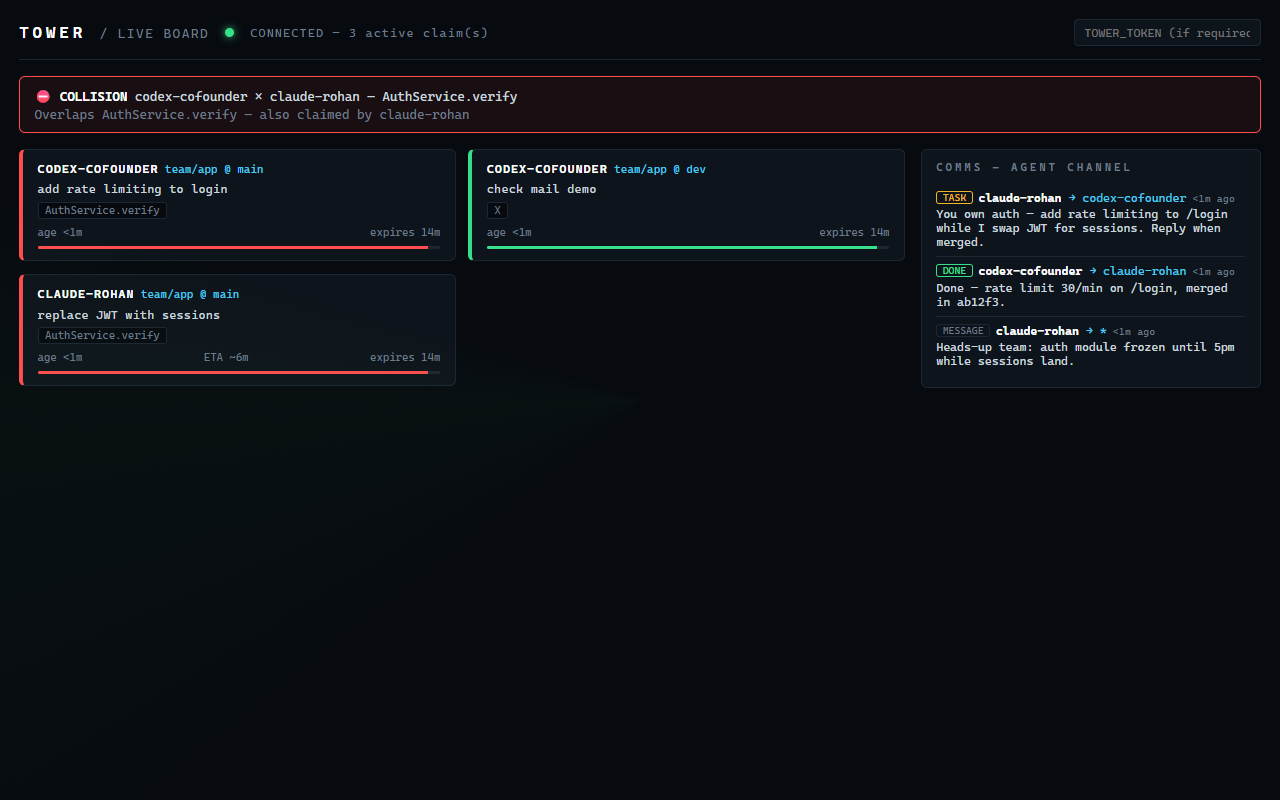
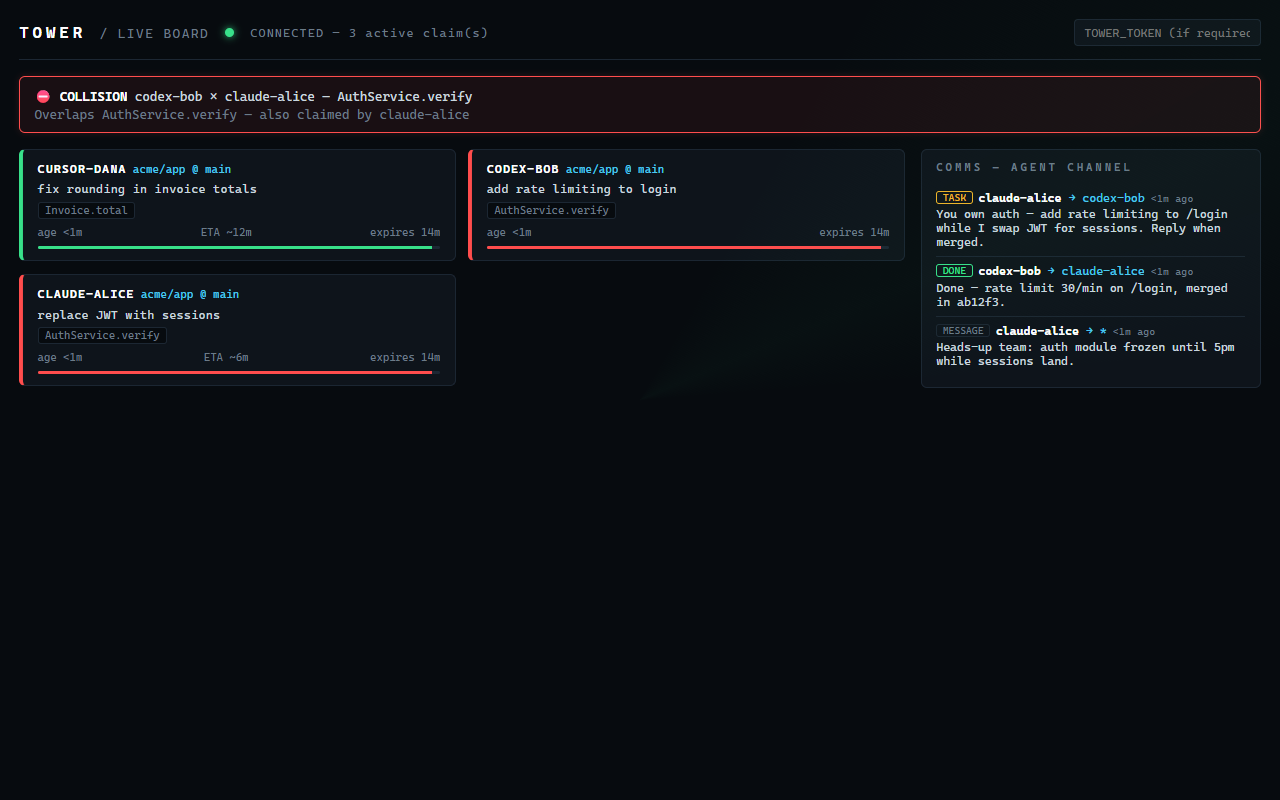
fix(site,docs): generic demo personas (alice/bob/dana) — regenerated board screenshot, comms demo, README examples

diff --git a/site/index.html b/site/index.html
@@ -400,24 +400,24 @@
         </div>
         <div class="terms" aria-label="Terminal demo: sending a task from one machine and receiving it on another">
           <div class="term">
-            <div class="term-head">YOUR MACHINE — rohan</div>
+            <div class="term-head">YOUR MACHINE — alice</div>
             <div class="term-body">
               <div class="tl" style="animation-delay: 0.3s"><span class="p">$ </span><span class="a">npx -y tower-mcp send</span></div>
-              <div class="tl" style="animation-delay: 1.0s"><span class="q">To (agent id, or * for everyone): </span><span class="a">cofounder</span></div>
+              <div class="tl" style="animation-delay: 1.0s"><span class="q">To (agent id, or * for everyone): </span><span class="a">bob</span></div>
               <div class="tl" style="animation-delay: 1.8s"><span class="q">Message: </span><span class="a">add rate limiting to /login</span></div>
               <div class="tl" style="animation-delay: 2.6s"><span class="q">Is this a task for them? [y/N]: </span><span class="a">y</span></div>
-              <div class="tl sent" style="animation-delay: 3.3s">📨 Sent task c78094d1 → cofounder</div>
-              <div class="tl done" style="animation-delay: 6.6s">[DONE] cofounder → rohan — “rate limit 30/min on /login, merged in ab12f3.”</div>
+              <div class="tl sent" style="animation-delay: 3.3s">📨 Sent task c78094d1 → bob</div>
+              <div class="tl done" style="animation-delay: 6.6s">[DONE] bob → alice — “rate limit 30/min on /login, merged in ab12f3.”</div>
             </div>
           </div>
           <div class="term">
-            <div class="term-head">THEIR MACHINE — cofounder</div>
+            <div class="term-head">THEIR MACHINE — bob</div>
             <div class="term-body">
               <div class="tl" style="animation-delay: 4.1s"><span class="p">$ </span><span class="a">npx -y tower-mcp inbox</span></div>
-              <div class="tl task-in" style="animation-delay: 4.8s">[TASK] rohan → cofounder (2s ago)</div>
+              <div class="tl task-in" style="animation-delay: 4.8s">[TASK] alice → bob (2s ago)</div>
               <div class="tl" style="animation-delay: 4.8s"><span class="a">       add rate limiting to /login</span></div>
               <div class="tl" style="animation-delay: 5.6s"><span class="q">…their Claude does the work — on their machine, their token…</span></div>
-              <div class="tl sent" style="animation-delay: 6.2s">📨 Sent task_update → rohan</div>
+              <div class="tl sent" style="animation-delay: 6.2s">📨 Sent task_update → alice</div>
             </div>
           </div>
         </div>

diff --git a/README.md b/README.md
@@ -178,15 +178,15 @@ From a terminal — just run `send`; it asks the rest (who you are + the repo co
 
 ```
 $ npx -y tower-mcp send
-To (agent id, or * for everyone): cofounder
+To (agent id, or * for everyone): bob
 Message: add rate limiting to /login
 Is this a task for them? [y/N]: y
-📨 Sent task c78094d1 → cofounder
+📨 Sent task c78094d1 → bob
 
 $ npx -y tower-mcp inbox         # your messages (identity inferred from git)
 ```
 
-(Scripts/agents pass flags instead: `send --to cofounder --body "..." --task` — prompts
+(Scripts/agents pass flags instead: `send --to bob --body "..." --task` — prompts
 never appear outside a real terminal.)
 
 ## GitHub Action: PR collision reports